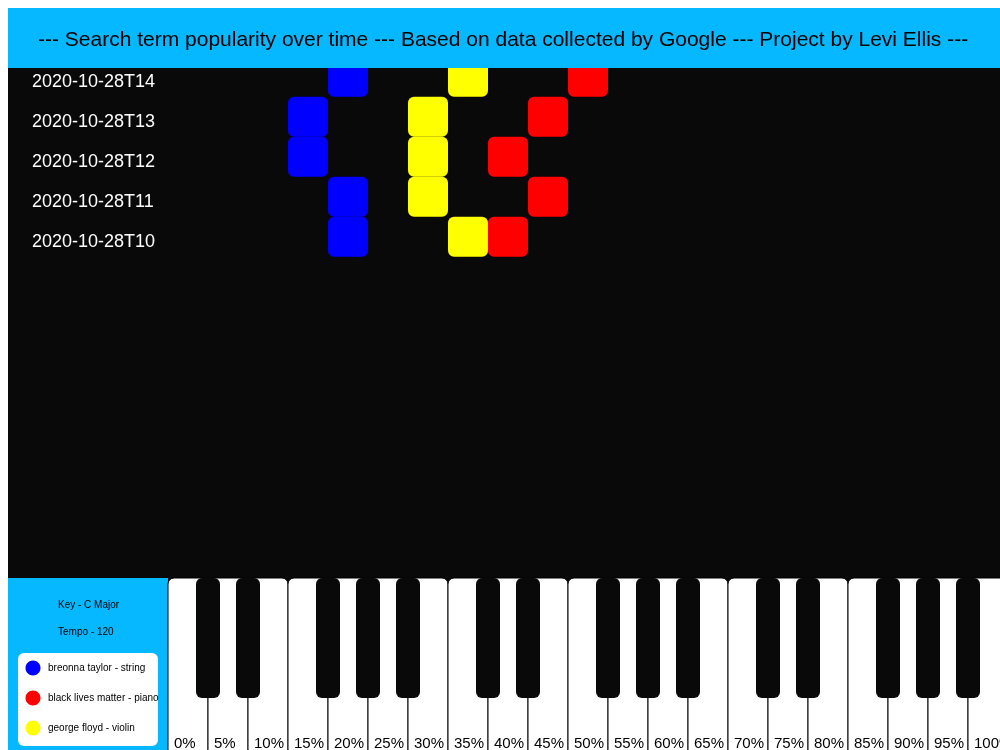
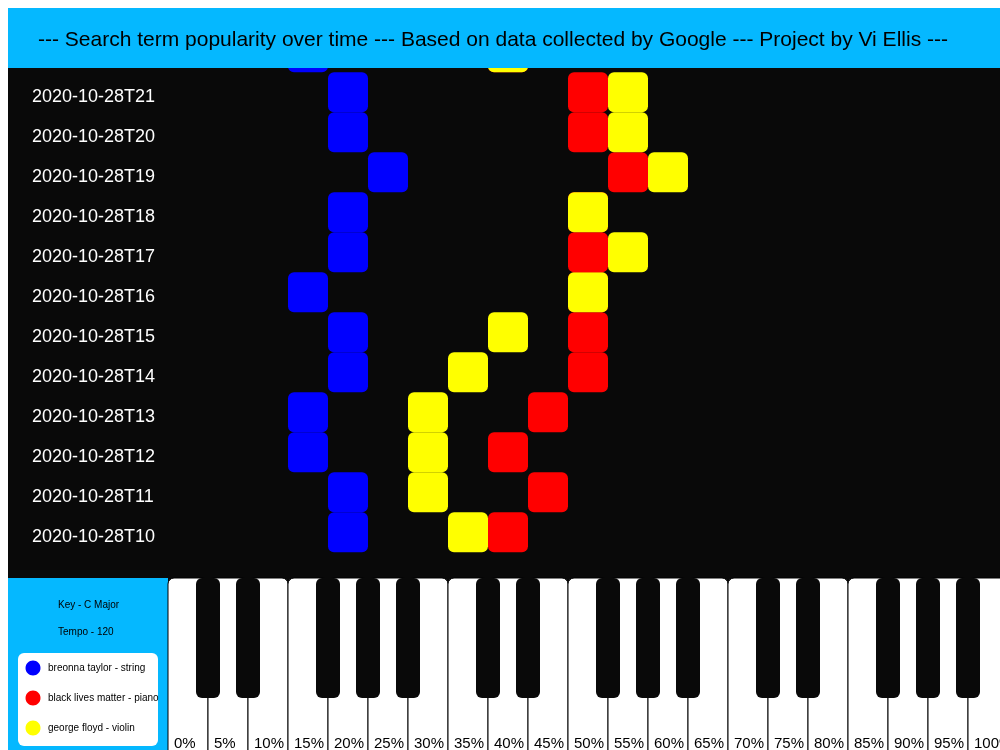
Portfolio: unlink Chatbot + Résumé Studio cards; fix datavis thumbnail
- Remove the Chatbot and Résumé Studio cards from the public Work grid per Vi.
  Both apps stay live and reachable as unlinked "secret" sub-links
  (/chatbot/, /resume/) — only the on-portfolio cards are gone.
- Replace the datavis thumbnail: the old capture was taken the instant the app
  started (notes bunched at top over mostly-black), so it read as a broken/empty
  box. New capture is a full frame with the piano roll cascading into the
  keyboard.

diff --git a/index.html b/index.html
@@ -1002,23 +1002,6 @@ html[data-theme="light"] .section-sub{ color:#5a5377 }
         </details>
       </article>
 
-      <!-- Chatbot -->
-      <article class="card reveal d1" data-lanes="ai">
-        <div class="tags"><span class="chip lane" data-l="ai">Creative Code</span><span class="chip">Woodbury University</span></div>
-        <h3>Chatbot</h3>
-        <p class="blurb">A browser chatbot that quietly rewrites its own conversation history, so the log stops matching what was actually said. An interaction piece about trust, memory, and how easily a record can be edited underneath you.</p>
-        <p class="outcome">Led a small team to design and ship it under a two-week constraint.</p>
-        <div class="stack"><span>JavaScript</span><span>HTML / CSS</span><span>Interaction design</span></div>
-        <div class="links"><button class="run-inline" type="button" data-app="/chatbot/" data-title="Chatbot"><svg width="14" height="14" viewBox="0 0 24 24" fill="currentColor" aria-hidden="true"><path d="M8 5v14l11-7z"/></svg>Run it here</button><a href="/chatbot/" target="_blank" rel="noopener">Live demo</a></div>
-        <div class="thumbs">
-          <button class="thumb" type="button" data-full="media/chatbot/chatbot-01.png" data-cap="The chatbot interface: type a message and the log quietly revises itself behind you"><img src="media/chatbot/chatbot-01.png" alt="Chatbot interface with pink artwork and chat panel" loading="lazy"></button>
-        </div>
-        <details>
-          <summary><svg class="chev" viewBox="0 0 24 24" fill="none" stroke="currentColor" stroke-width="2.4" stroke-linecap="round" stroke-linejoin="round" aria-hidden="true"><path d="M9 6l6 6-6 6"/></svg>Concept</summary>
-          <p class="dl"><b>Concept</b>A rule-based chat interface that, as the conversation continues, retroactively edits earlier messages so the visible history drifts away from what the user actually typed. Built with a small team under a two-week deadline.</p>
-        </details>
-      </article>
-
       <!-- Musically-Represented Data -->
       <article class="card reveal d2" data-lanes="ai audio">
         <div class="tags"><span class="chip lane" data-l="ai">Creative Code</span><span class="chip">2020 · Woodbury</span></div>
@@ -1189,20 +1172,6 @@ html[data-theme="light"] .section-sub{ color:#5a5377 }
         <details>
           <summary><svg class="chev" viewBox="0 0 24 24" fill="none" stroke="currentColor" stroke-width="2.4" stroke-linecap="round" stroke-linejoin="round" aria-hidden="true"><path d="M9 6l6 6-6 6"/></svg>Approach</summary>
           <p class="dl"><b>Approach</b>Built a layer and frame model where each cell carries its own state, composited live on a Canvas pipeline with onion-skinning, undo, and shape tools, then exported to PNG sequences.</p>
-        </details>
-      </article>
-
-      <!-- 17 -->
-      <article class="card reveal d1" data-lanes="ai">
-        <div class="tags"><span class="chip lane" data-l="ai">Engineering</span><span class="chip ai-built" title="Built with AI coding assistance">AI-assisted build</span><span class="chip">2026</span></div>
-        <h3>Résumé Studio</h3>
-        <p class="blurb">A public résumé editor that renders clean, ATS-friendly documents from structured content, with personal data kept out of the deployed build.</p>
-        <p class="outcome">Live editor that exports print-ready output; deployed with placeholder-only data so private details never ship to the public site.</p>
-        <div class="stack"><span>JavaScript</span><span>Web</span><span>PDF export</span></div>
-        <div class="links"><button class="run-inline" type="button" data-app="/resume/" data-title="Résumé Studio"><svg width="14" height="14" viewBox="0 0 24 24" fill="currentColor" aria-hidden="true"><path d="M8 5v14l11-7z"/></svg>Run it here</button><a href="/resume/" target="_blank" rel="noopener">Live</a></div>
-        <details>
-          <summary><svg class="chev" viewBox="0 0 24 24" fill="none" stroke="currentColor" stroke-width="2.4" stroke-linecap="round" stroke-linejoin="round" aria-hidden="true"><path d="M9 6l6 6-6 6"/></svg>Approach</summary>
-          <p class="dl"><b>Approach</b>Separated content from rendering so the same structured data drives an on-screen editor and a print-ready export, with a public build that loads only placeholder content while real data stays in a local-only template.</p>
         </details>
       </article>
 